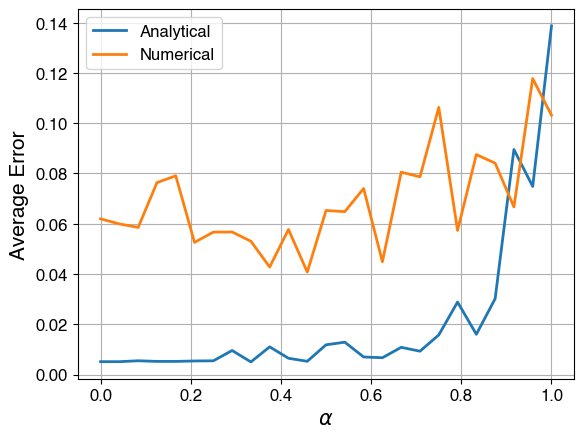
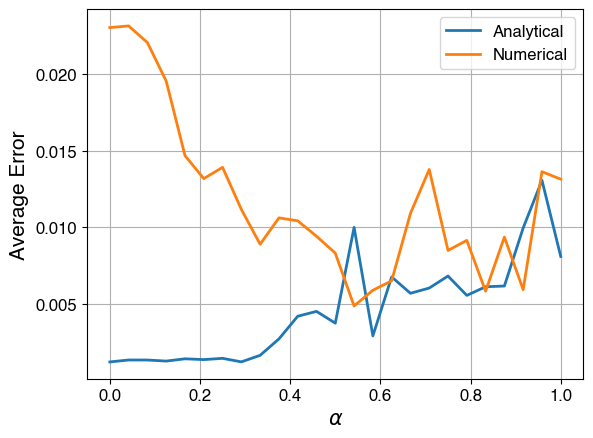
errors persist

diff --git a/BQPE/alpha-BQPE/bqpe_collapsed.py b/BQPE/alpha-BQPE/bqpe_collapsed.py
@@ -10,32 +10,16 @@ def transpose(L):
 
 def Update_Prior(M, theta, outcome, mu, sigma):
     d = outcome
+    phi_mu= mu+((1-2*d)*M*sigma**2*np.sin(M*mu - M*theta))/(np.exp(0.5*M**2*sigma**2)+(1-2*d)*np.cos(M*mu - M*theta))
+    numa = (2*np.exp(M**2*sigma**2)+2*(2*d-1)*exp(M**2 * sigma**2 * 0.5)*(M**2*sigma**2-2)*np.cos(M*mu - M*theta)+(1-2*d)**2*(1-2*M**2*sigma**2+np.cos(2*M*mu - 2*M*theta)))
+    demonetor=2*(np.exp(0.5*M**2*sigma**2)+(1-2*d)*np.cos(M*mu - M*theta))**2
+    sigma_2=sigma**2*numa/demonetor
+    phi_sigma=np.sqrt(sigma_2)
     
-    Expectation = mu - (
-        (1-2*d)*M*sigma**2 * sin(M*mu) * cos(M*theta)
-        ) / (
-            exp(M**2 * sigma**2 / 2) + (1-2*d)*cos(M*mu)*cos(M*theta)
-            )
-
-    VarNum = exp(M**2 * sigma**2) + (
-        0.5*(2*d - 1)*cos(M*theta) * (
-            2*exp(M**2 * sigma**2 / 2)*(M**2 * sigma**2 - 2)*cos(M*mu) + (2*d - 1)*cos(M*theta)*(
-                1 - (2 * M**2 * sigma**2) + cos(2*M*mu)
-            )
-        )
-        )
-
-    VarDenom = (
-        exp(M**2 * sigma**2 / 2) + (1 - 2*d)*cos(M*theta)*cos(M*mu)
-        )**2
-
-    Variance = sigma**2 * (VarNum / VarDenom)
-    
-    Std = np.sqrt(Variance)
-    return(Expectation, Std)
+    return(phi_mu, phi_sigma)
 
 
-def bqpe_analytical(threshold = 5*(10**-3), Phi = 0, Alpha = 0, sigma = pi / 2, Max_Runs = 10**5):
+def bqpe_analytical(threshold = 5*(10**-3), Phi = 0, Alpha = 0, sigma = pi / 4, Max_Runs = 10**5):
     if not 0<= Alpha<=1 or not -pi<=Phi<=pi:
         raise ValueError("Alpha: must be between 0 and 1 inclusive.")
     if sigma<0 or sigma > 1:
@@ -45,19 +29,19 @@ def bqpe_analytical(threshold = 5*(10**-3), Phi = 0, Alpha = 0, sigma = pi / 2, 
     run = 0
     flag = 0
     while sigma > threshold:
-        
+        theta = mu - sigma
         M = max(
             1, np.floor((1/sigma**Alpha) + 1/2)
         )
 
-        p = 1/2 + cos(M*Phi)/2
+        p = 1/2 + cos(M*Phi- M*theta)/2
 
         if random.uniform(0, 1) < p:
             outcome = 0
         else:
             outcome = 1
         
-        mu, sigma = Update_Prior(M, 0, outcome, mu, sigma)
+        mu, sigma = Update_Prior(M, theta, outcome, mu, sigma)
         # mu, sigma = np.mean(accepted), np.std(accepted)
         
         run += 1
@@ -85,11 +69,12 @@ def bqpe_numerical(threshold = 5*(10**-3), Phi = 0, Alpha = 0, sigma = pi / 4, S
     flag = 0
     while sigma > threshold:
         Sampled = np.random.normal(mu, sigma, Sample_Size)
+        theta = mu - sigma
         M = max(
             1, np.floor((1/sigma**Alpha) + 1/2)
         )
 
-        p = 1/2 + cos(M*Phi)/2
+        p = 1/2 + cos(M*Phi - M*theta)/2
 
         if random.uniform(0, 1) < p:
             outcome = 0
@@ -98,7 +83,7 @@ def bqpe_numerical(threshold = 5*(10**-3), Phi = 0, Alpha = 0, sigma = pi / 4, S
         
         accepted = []         
         for varphi in Sampled:
-            P = 1/2 + (1-2*outcome)*cos(M*varphi)/2
+            P = 1/2 + (1-2*outcome)*cos(M*varphi-M*theta)/2
             if P > random.uniform(0, 1):
                 accepted.append(
                     varphi

diff --git a/BQPE/alpha-BQPE/bqpe_exact_vs_rejSamp.py b/BQPE/alpha-BQPE/bqpe_exact_vs_rejSamp.py
@@ -5,26 +5,31 @@ import os
 import time as time
 import sys
 from datetime import datetime
-from bqpe import *
+
+if sys.argv[1] == '0':
+    from bqpe import *
+    prefix = 'Superposition_'
+elif sys.argv[1] == '1':
+    from bqpe_collapsed import *
+    prefix = 'Collapsed_'
+else: 
+    raise ValueError('Needs input argument of 0, 1.')
 
 
-
-L = 10**3
+L = 500
 thres = 5*10**-3
-thres = 10**-3
-max = 2/thres**2 + 0.1 * 1/thres
-
-random_phases = []
-for _ in range(L):
-    random_phases.append(
-        random.uniform(-pi, pi)
-    )
+# thres = 10**-3
+MaxR = 10**5
 
 current = datetime.now()
 
 
+current = datetime.now()
 
-write_here = 'analytical_vs_numerical_%s.txt'%current.strftime('%H%M-%d%m%y')
+analytical_write = 'data/'+prefix+'analytical_alpha_Tol%s.txt'%thres
+numerical_write = 'data/'+prefix+'numerical_alpha_Tol%s.txt'%thres
+
+write_here = prefix + 'analytical_vs_numerical_%s.txt'%current.strftime('%H%M-%d%m%y')
 f = open(write_here,'w+')
 f.write('Runs: %s\nTolerance: %s\n'%(L,thres))
 f.close()
@@ -34,20 +39,25 @@ ana_err = 0
 from progress.bar import ShadyBar
 bar = ShadyBar('Generating analytical data... ', max = L, suffix = '%(percent).2f%%')
 idx = 0
+Failure_Rate = 0
 while idx < L:
-    r = random_phases[idx]
+    r = random.uniform(-pi, pi)#random_phases[idx]
     start = time.time()
-    flag, est, error, runs, sig = bqpe_analytical(threshold = thres, Phi = r, Alpha = 0, sigma = pi / 4, Max_Runs = max)
+    flag, est, error, runs, sig = bqpe_analytical(threshold = thres, Phi = r, Alpha = 0, sigma = pi / 4, Max_Runs = MaxR)
     end = time.time()
     if flag == 0:
         ana_time += (end-start) / L
         ana_err += error / L
         idx += 1
         bar.next()
+    else:
+        Failure_Rate += 1
+        # print('Failed\n')
 bar.finish()
 
 f = open(write_here, "a+")
-f.write('Analytical data:\n    Error = %.8f\n    Time = %.8fs\n\n'%(ana_err, ana_time))
+f.write('Analytical data:\n    Error = %.8f\n    Time = %.8fs\n'%(ana_err, ana_time))
+f.write('Failed runs: %s\n\n'%Failure_Rate)
 f.close()
 
 f = open(write_here, "a+")
@@ -65,20 +75,27 @@ for S in sample_sizes:
     num_time = 0
     num_err = 0
     idx = 0
+    Failure_Rate = 0
     while idx < L:
+        r = random.uniform(-pi, pi)
         start = time.time()
-        flag1, est1, error1, runs1, sig = bqpe_numerical(threshold = thres, Phi = r, Alpha = 0, sigma = pi / 4, Sample_Size = S, Max_Runs = max)
+        flag1, est1, error1, runs1, sig = bqpe_numerical(threshold = thres, Phi = r, Alpha = 0, sigma = pi / 4, Sample_Size = S, Max_Runs = MaxR)
         end = time.time()
         if flag1 == 0:
             num_time += (end-start)/L
             num_err += error1/L
             idx += 1
             bar.next()
-
+        else:
+            Failure_Rate += 1
     f = open(write_here, "a+")
     str1 = '  {:>11}'.format('%s'%S)
     str2 = '  {:>12}'.format('%.8f'%num_err)
     str3 = '{:>12}\n'.format('%.8f'%num_time)
     f.write(str1+'|'+str2+str3)
+    
     f.close()
 bar.finish()
+f = open(write_here, "a+")
+f.write('\nFailed runs: %s'%Failure_Rate)
+f.close()

diff --git a/BQPE/alpha-BQPE/bqpe_testing_alpha_ExactVRejSamp.py b/BQPE/alpha-BQPE/bqpe_testing_alpha_ExactVRejSamp.py
@@ -5,7 +5,16 @@ import os
 import time as time
 import sys
 from datetime import datetime
-from bqpe import *
+
+if sys.argv[1] == '0':
+    from bqpe import *
+    prefix = 'Superposition_'
+elif sys.argv[1] == '1':
+    from bqpe_collapsed import *
+    prefix = 'Collapsed_'
+else:
+    raise ValueError('Needs integer input 0,1')
+
 
 def transpose(L):
     return(list(map(list,zip(*L))))
@@ -16,16 +25,10 @@ thres = 5*10**-3
 MaxR = 10**5#2/thres**2 + 0.1 * 1/thres
 
 
-random_phases = []
-for _ in range(L):
-    random_phases.append(
-        random.uniform(-pi, pi)
-    )
-
 current = datetime.now()
 
-analytical_write = 'data/analytical_alpha_Tol%s.txt'%thres
-numerical_write = 'data/numerical_alpha_Tol%s.txt'%thres
+analytical_write = 'data/'+prefix+'analytical_alpha_Tol%s.txt'%thres
+numerical_write = 'data/'+prefix+'numerical_alpha_Tol%s.txt'%thres
 
 if os.path.exists(analytical_write):
     os.rename(analytical_write, 'data/analytical_alpha_Tol%s_Renamed%s.txt'%(thres, current.strftime('%d%m%y')))
@@ -41,7 +44,7 @@ for alpha in Alpha_Values:
     ana_err = 0
     idx = 0
     while idx < L:
-        r = random_phases[idx]
+        r = random.uniform(-pi, pi)
         start = time.time()
         flag, est, error, runs, sig = bqpe_analytical(threshold = thres, Phi = r, Alpha = alpha, sigma = pi / 4, Max_Runs = MaxR)
         end = time.time()
@@ -63,7 +66,7 @@ for alpha in Alpha_Values:
     num_err = 0
     idx = 0
     while idx < L:
-        r = random_phases[idx]
+        r = random.uniform(-pi, pi)
         start = time.time()
         flag, est, error, runs, sig = bqpe_numerical(threshold = thres, Phi = r, Alpha = alpha, sigma = pi / 4, Max_Runs = MaxR, Sample_Size = 500)
         end = time.time()
@@ -89,7 +92,7 @@ plt.ylabel('Average Error', fontsize = 15, labelpad = 5)
 plt.xticks(fontsize = 12)
 plt.yticks(fontsize = 12)
 plt.legend(fontsize = 12)
-plt.savefig('Analytical_Numerical_ErrorAgainstAlpha.png', bbox_inches = 'tight')
+plt.savefig(prefix+'Analytical_Numerical_ErrorAgainstAlpha.png', bbox_inches = 'tight')
 plt.clf()
 
 plt.plot(Alpha_Values, transpose(analytical_data)[2], linewidth = 2, label = 'Analytical')
@@ -100,5 +103,5 @@ plt.ylabel('Average Timing', fontsize = 15, labelpad = 5)
 plt.xticks(fontsize = 12)
 plt.yticks(fontsize = 12)
 plt.legend(fontsize = 12)
-plt.savefig('Analytical_Numerical_TimeAgainstAlpha.png', bbox_inches = 'tight')
+plt.savefig(prefix + 'Analytical_Numerical_TimeAgainstAlpha.png', bbox_inches = 'tight')
 plt.clf()
